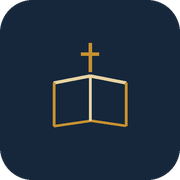
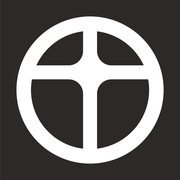
Brand Teologuida, dominio, PWA offline, SEO e 404
- Dominio: metadataBase www.teologuida.it, canonical per pagina, OG/Twitter,
  sitemap.xml (app/sitemap.js), robots.txt
- Anteprima social: og.png brandizzata (simbolo + titolo + teologuida.it)
- Logo Teologuida: simbolo nel header, wordmark nel footer (chiaro/scuro),
  icone PWA/favicon/apple-touch rigenerate dal simbolo
- PWA offline: service worker (public/sw.js, stale-while-revalidate) registrato
  nello Shell; manifest brandizzato
- Pagina 404 curata e coerente col design

diff --git a/components/Shell.js b/components/Shell.js
@@ -114,6 +114,11 @@ export default function Shell({ pages, searchIndex, children }) {
     // funzioni di studio: evidenzia, glossario, condividi paragrafo, segnalibri
     try { initStudy(glossary); } catch (e) {}
 
+    // PWA: registra il service worker per la lettura offline
+    if ("serviceWorker" in navigator) {
+      navigator.serviceWorker.register("/sw.js").catch(() => {});
+    }
+
     return () => {
       removeEventListener("scroll", onScroll);
       removeEventListener("resize", onScroll);
@@ -126,7 +131,7 @@ export default function Shell({ pages, searchIndex, children }) {
     <>
       <div className="progress" id="progress" />
       <header className="site">
-        <a className="brand" href="/"><span className="brand-mark">✝</span> I Fondamenti della Fede</a>
+        <a className="brand" href="/"><img className="brand-logo" src="/icon-192.png" alt="Teologuida" width="26" height="26" /> I Fondamenti della Fede</a>
         <div className="site-tools">
           <button id="menuBtn" className="hbtn" aria-label="Indice">☰ <span className="lbl">Indice</span></button>
           <button id="searchBtn" className="hbtn" aria-label="Cerca">⌕ <span className="lbl">Cerca</span></button>
@@ -152,9 +157,17 @@ export default function Shell({ pages, searchIndex, children }) {
       {children}
 
       <footer className="site-foot">
-        <strong>I Fondamenti della Fede</strong> — manuale del discepolo · documento vivo, verificabile.
-        <br />
-        Ogni affermazione va controllata alla luce della Scrittura · <em>Sola Scriptura</em>
+        <a href="https://www.teologuida.it" className="foot-brand" aria-label="Teologuida">
+          <img className="foot-logo light" src="/logo-teologuida.png" alt="Teologuida" />
+          <img className="foot-logo dark" src="/teologuida-bianca.png" alt="Teologuida" />
+        </a>
+        <div className="foot-txt">
+          <strong>I Fondamenti della Fede</strong> — manuale del discepolo · documento vivo, verificabile.
+          <br />
+          Ogni affermazione va controllata alla luce della Scrittura · <em>Sola Scriptura</em>
+          <br />
+          © Teologuida · <a href="https://www.teologuida.it">teologuida.it</a>
+        </div>
       </footer>
 
       <div className="search-overlay" id="searchOverlay" hidden>

diff --git a/app/globals.css b/app/globals.css
@@ -370,8 +370,8 @@ html{overflow-x:hidden}
   gap:16px;padding:10px clamp(14px,4vw,28px);background:color-mix(in srgb,var(--page) 88%,transparent);
   backdrop-filter:saturate(1.2) blur(10px);-webkit-backdrop-filter:saturate(1.2) blur(10px);
   border-bottom:1px solid var(--rule);flex-wrap:wrap}
-.brand{font-family:var(--serif);font-weight:700;font-size:1.02rem;color:var(--ink);text-decoration:none;letter-spacing:-.01em;white-space:nowrap}
-.brand-mark{color:var(--accent);margin-right:4px}
+.brand{font-family:var(--serif);font-weight:700;font-size:1.02rem;color:var(--ink);text-decoration:none;letter-spacing:-.01em;white-space:nowrap;display:inline-flex;align-items:center;gap:8px}
+.brand-logo{width:26px;height:26px;border-radius:6px;flex:0 0 auto}
 .site-tools{display:flex;align-items:center;gap:6px;flex-wrap:wrap}
 .hbtn,.fsgroup button{font-family:var(--sans);font-size:12px;font-weight:600;color:var(--ink-2);
   background:var(--panel);border:1px solid var(--rule);border-radius:8px;padding:7px 11px;cursor:pointer;
@@ -400,6 +400,17 @@ html{overflow-x:hidden}
 .site-foot{max-width:var(--measure);margin:70px auto 0;padding:34px clamp(18px,5vw,40px);text-align:center;
   font-family:var(--sans);font-size:.82rem;color:var(--ink-3);border-top:1px solid var(--rule);line-height:1.7}
 .site-foot strong{color:var(--ink-2)}
+.foot-brand{display:inline-block;margin-bottom:16px}
+.foot-logo{height:32px;width:auto}
+.foot-logo.dark{display:none}
+:root[data-theme="dark"] .foot-logo.light{display:none}
+:root[data-theme="dark"] .foot-logo.dark{display:inline-block}
+:root[data-theme="light"] .foot-logo.light{display:inline-block}
+:root[data-theme="light"] .foot-logo.dark{display:none}
+@media (prefers-color-scheme:dark){:root:not([data-theme]) .foot-logo.light{display:none}
+  :root:not([data-theme]) .foot-logo.dark{display:inline-block}}
+.foot-txt a{color:var(--accent);text-decoration:none}
+.foot-txt a:hover{text-decoration:underline}
 .cta{display:inline-block;font-family:var(--sans);font-weight:700;font-size:.9rem;text-decoration:none;
   background:var(--accent);color:#fff;padding:12px 20px;border-radius:9px;letter-spacing:.01em}
 .cta.ghost{background:transparent;color:var(--accent);border:1px solid var(--accent-soft)}

diff --git a/scripts/site.css b/scripts/site.css
@@ -4,8 +4,8 @@
   gap:16px;padding:10px clamp(14px,4vw,28px);background:color-mix(in srgb,var(--page) 88%,transparent);
   backdrop-filter:saturate(1.2) blur(10px);-webkit-backdrop-filter:saturate(1.2) blur(10px);
   border-bottom:1px solid var(--rule);flex-wrap:wrap}
-.brand{font-family:var(--serif);font-weight:700;font-size:1.02rem;color:var(--ink);text-decoration:none;letter-spacing:-.01em;white-space:nowrap}
-.brand-mark{color:var(--accent);margin-right:4px}
+.brand{font-family:var(--serif);font-weight:700;font-size:1.02rem;color:var(--ink);text-decoration:none;letter-spacing:-.01em;white-space:nowrap;display:inline-flex;align-items:center;gap:8px}
+.brand-logo{width:26px;height:26px;border-radius:6px;flex:0 0 auto}
 .site-tools{display:flex;align-items:center;gap:6px;flex-wrap:wrap}
 .hbtn,.fsgroup button{font-family:var(--sans);font-size:12px;font-weight:600;color:var(--ink-2);
   background:var(--panel);border:1px solid var(--rule);border-radius:8px;padding:7px 11px;cursor:pointer;
@@ -34,6 +34,17 @@
 .site-foot{max-width:var(--measure);margin:70px auto 0;padding:34px clamp(18px,5vw,40px);text-align:center;
   font-family:var(--sans);font-size:.82rem;color:var(--ink-3);border-top:1px solid var(--rule);line-height:1.7}
 .site-foot strong{color:var(--ink-2)}
+.foot-brand{display:inline-block;margin-bottom:16px}
+.foot-logo{height:32px;width:auto}
+.foot-logo.dark{display:none}
+:root[data-theme="dark"] .foot-logo.light{display:none}
+:root[data-theme="dark"] .foot-logo.dark{display:inline-block}
+:root[data-theme="light"] .foot-logo.light{display:inline-block}
+:root[data-theme="light"] .foot-logo.dark{display:none}
+@media (prefers-color-scheme:dark){:root:not([data-theme]) .foot-logo.light{display:none}
+  :root:not([data-theme]) .foot-logo.dark{display:inline-block}}
+.foot-txt a{color:var(--accent);text-decoration:none}
+.foot-txt a:hover{text-decoration:underline}
 .cta{display:inline-block;font-family:var(--sans);font-weight:700;font-size:.9rem;text-decoration:none;
   background:var(--accent);color:#fff;padding:12px 20px;border-radius:9px;letter-spacing:.01em}
 .cta.ghost{background:transparent;color:var(--accent);border:1px solid var(--accent-soft)}

diff --git a/app/layout.js b/app/layout.js
@@ -4,14 +4,38 @@ import pages from "../content/pages.json";
 import searchIndex from "../content/search-index.json";
 
 export const metadata = {
-  title: "I Fondamenti della Fede — Manuale del discepolo",
+  metadataBase: new URL("https://www.teologuida.it"),
+  title: {
+    default: "I Fondamenti della Fede — Teologuida",
+    template: "%s · Teologuida"
+  },
   description:
-    "Manuale di discepolato cristiano per principianti e scettici: ogni affermazione documentata, testi originali, download PDF. Un documento vivo e verificabile.",
+    "Manuale di discepolato cristiano per principianti e scettici: ogni affermazione documentata, testi originali, download PDF. Un documento vivo e verificabile, di Teologuida.",
+  applicationName: "Teologuida",
+  authors: [{ name: "Teologuida" }],
+  creator: "Teologuida",
+  publisher: "Teologuida",
+  keywords: [
+    "teologia riformata", "discepolato cristiano", "vangelo", "Bibbia",
+    "sana dottrina", "apologetica", "Trinità", "giustificazione", "Teologuida"
+  ],
   manifest: "/manifest.webmanifest",
+  alternates: { canonical: "/" },
+  icons: { icon: "/favicon.png", apple: "/apple-touch-icon.png" },
   openGraph: {
-    title: "I Fondamenti della Fede",
-    description: "Il Vangelo con fonti verificabili — un documento vivo.",
-    type: "website"
+    type: "website",
+    siteName: "Teologuida",
+    locale: "it_IT",
+    url: "https://www.teologuida.it",
+    title: "I Fondamenti della Fede — Teologuida",
+    description: "Il Vangelo con fonti verificabili — un manuale vivo e documentato.",
+    images: [{ url: "/og.png", width: 1200, height: 630, alt: "I Fondamenti della Fede — Teologuida" }]
+  },
+  twitter: {
+    card: "summary_large_image",
+    title: "I Fondamenti della Fede — Teologuida",
+    description: "Il Vangelo con fonti verificabili.",
+    images: ["/og.png"]
   }
 };
 

diff --git a/public/sw.js b/public/sw.js
@@ -1,0 +1,44 @@
+/* Service worker Teologuida — lettura offline (PWA)
+   Strategia: stale-while-revalidate per le pagine e gli asset dello stesso dominio.
+   Serve subito la copia in cache (se c'è), aggiorna in background, e in assenza
+   di rete mostra l'ultima versione salvata (o la copertina). */
+const VERSION = "teologuida-v2";
+const CORE = [
+  "/", "/manifest.webmanifest",
+  "/favicon.png", "/icon-192.png", "/icon-512.png", "/apple-touch-icon.png", "/og.png"
+];
+
+self.addEventListener("install", (e) => {
+  e.waitUntil(
+    caches.open(VERSION).then((c) => c.addAll(CORE)).then(() => self.skipWaiting())
+  );
+});
+
+self.addEventListener("activate", (e) => {
+  e.waitUntil(
+    caches.keys()
+      .then((keys) => Promise.all(keys.filter((k) => k !== VERSION).map((k) => caches.delete(k))))
+      .then(() => self.clients.claim())
+  );
+});
+
+self.addEventListener("fetch", (e) => {
+  const req = e.request;
+  if (req.method !== "GET") return;
+  const url = new URL(req.url);
+  if (url.origin !== self.location.origin) return;
+  e.respondWith(
+    caches.match(req).then((cached) => {
+      const net = fetch(req)
+        .then((res) => {
+          if (res && res.status === 200 && res.type === "basic") {
+            const copy = res.clone();
+            caches.open(VERSION).then((c) => c.put(req, copy));
+          }
+          return res;
+        })
+        .catch(() => cached || (req.mode === "navigate" ? caches.match("/") : undefined));
+      return cached || net;
+    })
+  );
+});

diff --git a/app/not-found.js b/app/not-found.js
@@ -1,0 +1,25 @@
+export const metadata = { title: "Pagina non trovata" };
+
+export default function NotFound() {
+  return (
+    <main className="book" id="content">
+      <section className="sheet" style={{ textAlign: "center" }}>
+        <div className="col">
+          <div className="chap-open">
+            <div className="chap-num">Errore 404</div>
+            <h2 className="chap-title">Questa pagina non esiste</h2>
+            <p className="chap-lede">
+              Forse il link è datato, oppure la pagina è stata spostata durante un
+              riordino del manuale. Nulla è perduto: riparti da qui.
+            </p>
+          </div>
+          <p style={{ textAlign: "center", marginTop: "1.5em" }}>
+            <a className="cta" href="/">Torna alla copertina</a>
+            &nbsp;&nbsp;
+            <a className="cta ghost" href="/introduzione/">Vai all'introduzione</a>
+          </p>
+        </div>
+      </section>
+    </main>
+  );
+}

diff --git a/app/sitemap.js b/app/sitemap.js
@@ -1,0 +1,15 @@
+import pages from "../content/pages.json";
+
+const BASE = "https://www.teologuida.it";
+
+export default function sitemap() {
+  const now = new Date().toISOString();
+  const home = { url: `${BASE}/`, lastModified: now, changeFrequency: "monthly", priority: 1 };
+  const rest = pages.map((p) => ({
+    url: `${BASE}/${p.slug}/`,
+    lastModified: now,
+    changeFrequency: "monthly",
+    priority: p.slug.startsWith("parte") ? 0.9 : 0.6
+  }));
+  return [home, ...rest];
+}

diff --git a/app/[slug]/page.js b/app/[slug]/page.js
@@ -8,7 +8,10 @@ export function generateStaticParams() {
 
 export function generateMetadata({ params }) {
   const p = pages.find((x) => x.slug === params.slug);
-  return { title: (p ? p.title : "Pagina") + " — I Fondamenti della Fede" };
+  return {
+    title: p ? p.title : "Pagina",
+    alternates: { canonical: `/${params.slug}/` }
+  };
 }
 
 export default function Page({ params }) {
